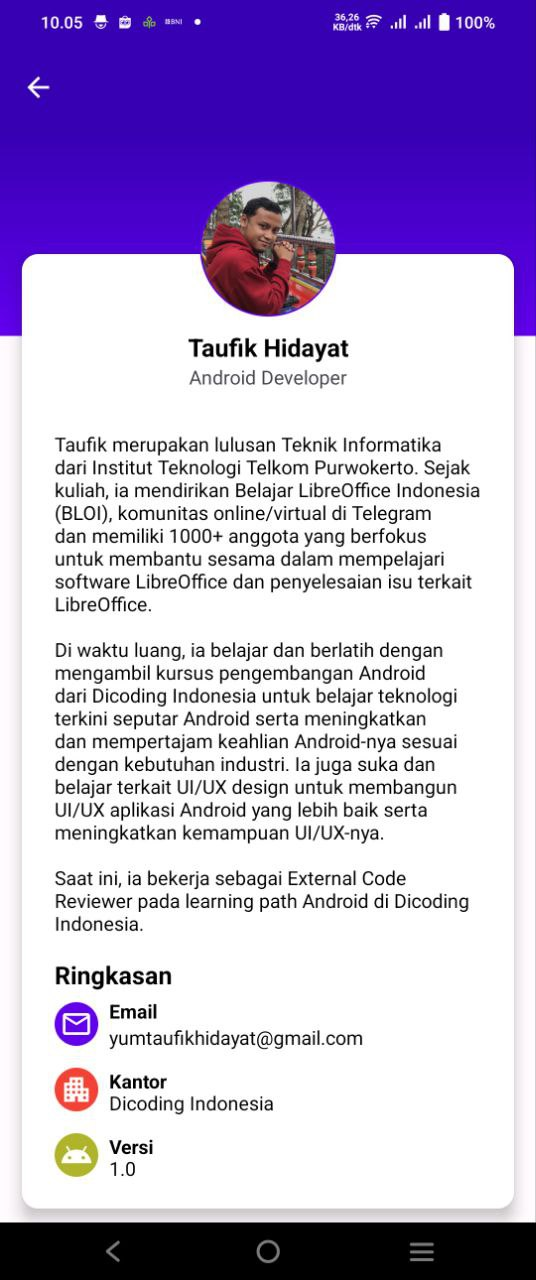
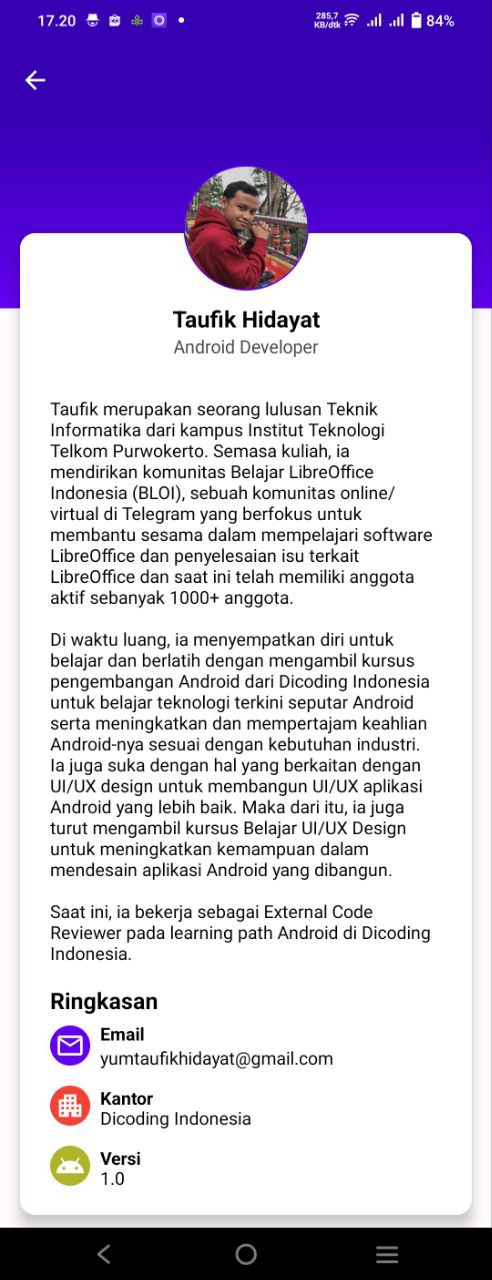
Update personal description and update profile screenshot.

diff --git a/app/src/main/java/com/yumtaufikhidayat/asean/data/source/InitialDataSource.kt b/app/src/main/java/com/yumtaufikhidayat/asean/data/source/InitialDataSource.kt
@@ -164,8 +164,8 @@ object InitialDataSource {
             profileId = 0,
             profileName = "Taufik Hidayat",
             profileJob = "Android Developer",
-            profileDesc = "Taufik merupakan lulusan Teknik Informatika dari Institut Teknologi Telkom Purwokerto. Sejak kuliah, ia mendirikan Belajar LibreOffice Indonesia (BLOI), komunitas online/virtual di Telegram dan memiliki 1000+ anggota yang berfokus untuk membantu sesama dalam mempelajari software LibreOffice dan penyelesaian isu terkait LibreOffice.\n\n" +
-                    "Di waktu luang, ia belajar dan berlatih dengan mengambil kursus pengembangan Android dari Dicoding Indonesia untuk belajar teknologi terkini seputar Android serta meningkatkan dan mempertajam keahlian Android-nya sesuai dengan kebutuhan industri. Ia juga suka dan belajar terkait UI/UX design untuk membangun UI/UX aplikasi Android yang lebih baik serta meningkatkan kemampuan UI/UX-nya.\n\n" +
+            profileDesc = "Taufik merupakan seorang lulusan Teknik Informatika dari kampus Institut Teknologi Telkom Purwokerto. Semasa kuliah, ia mendirikan komunitas Belajar LibreOffice Indonesia (BLOI), sebuah komunitas online/virtual di Telegram yang berfokus untuk membantu sesama dalam mempelajari software LibreOffice dan penyelesaian isu terkait LibreOffice dan saat ini telah memiliki anggota aktif sebanyak 1000+ anggota.\n\n" +
+                    "Di waktu luang, ia menyempatkan diri untuk belajar dan berlatih dengan mengambil kursus pengembangan Android dari Dicoding Indonesia untuk belajar teknologi terkini seputar Android serta meningkatkan dan mempertajam keahlian Android-nya sesuai dengan kebutuhan industri. Ia juga suka dengan hal yang berkaitan dengan UI/UX design untuk membangun UI/UX aplikasi Android yang lebih baik. Maka dari itu, ia juga turut mengambil kursus Belajar UI/UX Design untuk meningkatkan kemampuan dalam mendesain aplikasi Android yang dibangun.\n\n" +
                     "Saat ini, ia bekerja sebagai External Code Reviewer pada learning path Android di Dicoding Indonesia.",
             profileEmail = "yumtaufikhidayat@gmail.com",
             profileOffice = "Dicoding Indonesia"
